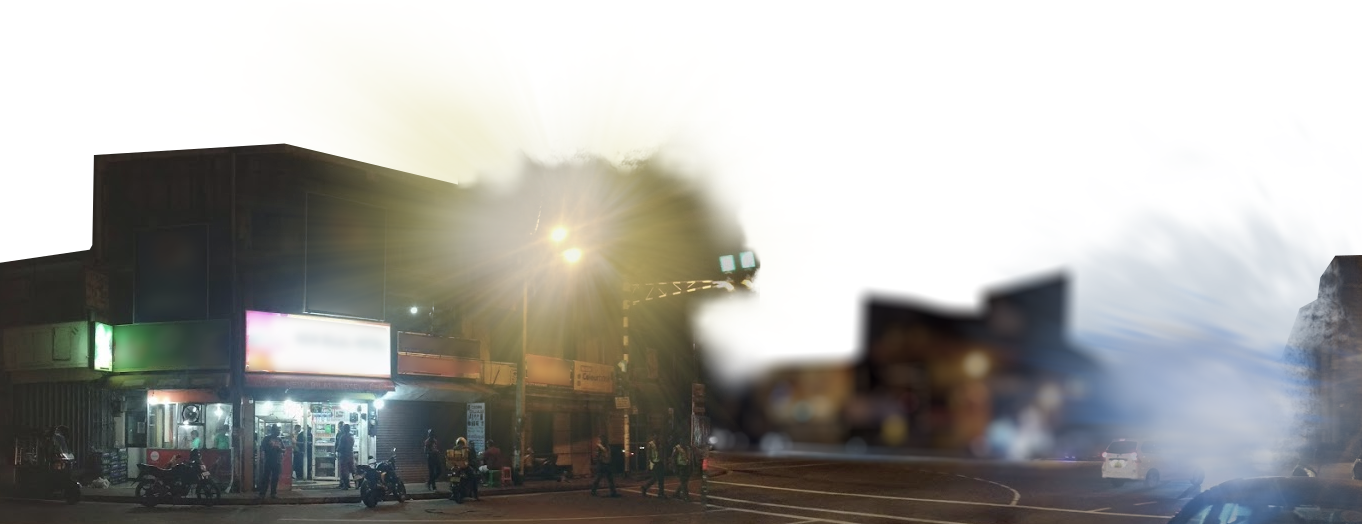
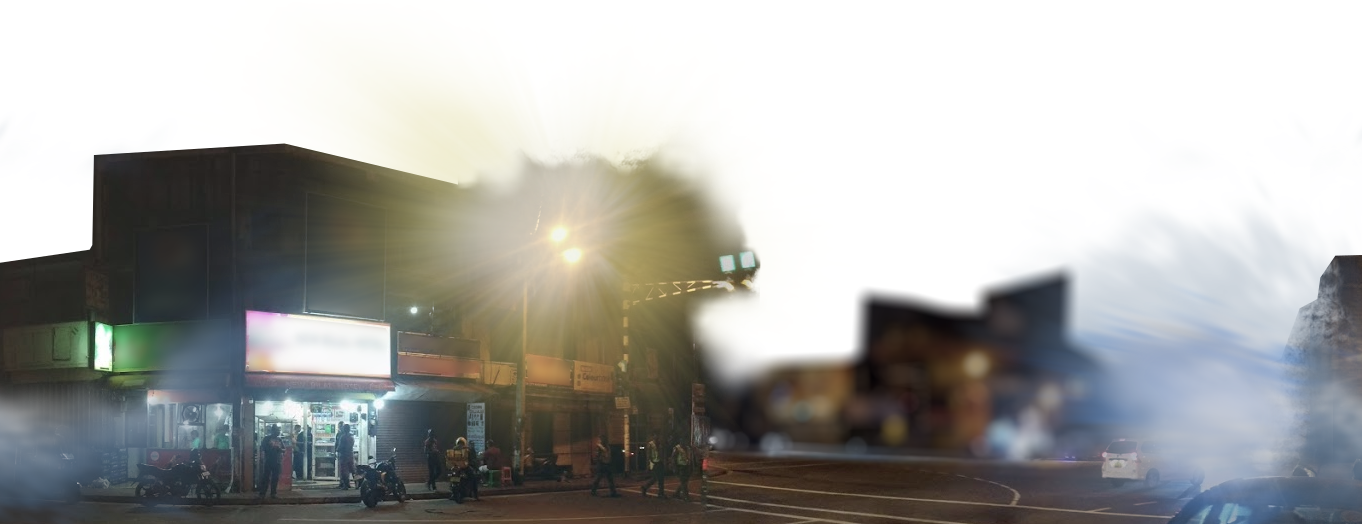
attemp 1 on making the image edge repeatable

Changed region(s): [[0.0, 0.6107, 0.2159, 0.9771], [0.9559, 0.6718, 1.0, 0.9771]]

diff --git a/assets/css/parallax.css b/assets/css/parallax.css
@@ -3,6 +3,7 @@
   background: url(../images/sky-cropped.png);
   background-size: cover;
   background-attachment: fixed;
+
 }
 
 #parallax-overlay{  
@@ -10,8 +11,9 @@
   margin: 0;
   background: url(../images/overlay.png);
   background-size: contain;
-  background-repeat: no-repeat;
+  background-repeat: repeat-x;
   background-position: bottom;
   object-position: bottom;
-  object-fit: contain
+  object-fit: contain;
+  
 }
